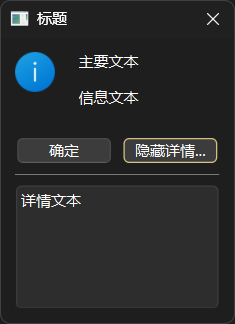
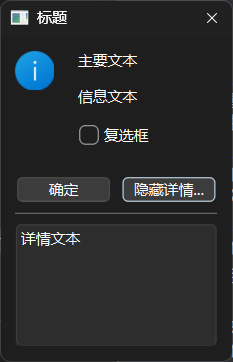
Update

diff --git a/gui/qt_for_python.md b/gui/qt_for_python.md
@@ -6819,7 +6819,8 @@ from PySide6.QtWidgets import (
     QApplication,
     QWidget,
     QPushButton,
-    QMessageBox
+    QMessageBox,
+    QCheckBox
 )
 from PySide6.QtCore import QTranslator,QLibraryInfo,QLocale
 
@@ -6848,6 +6849,9 @@ message_box = QMessageBox(
     informativeText='信息文本'
 )
 
+cb = QCheckBox('复选框')
+message_box.setCheckBox(cb)
+
 button.clicked.connect(message_box.show)
 window.show()
 app.exec()
@@ -6861,7 +6865,8 @@ app.exec()
 
 - 左上角显示的图标，通常是简单直观的标识，也可以是自定义的图片，用于表达信息的图形部分。
 - 图标右边的上面是主要文本，通常简明扼要地表达信息的主要内容。
-- 图标右边的下面是信息文本，通常补充说明信息内容。
+- 主要文本的下面是信息文本，通常补充说明信息内容。
+- 信息文本的下面是复选框，通常表示一个布尔类型的选择。
 - 如果定没有义详情文本，最下面的是一排按钮，用户可以点击按钮，程序能够识别用户点击的按钮，对话框消失的同时，返回不同的值。
 - 如果定义了详情文本，最下面的一排按钮会多一个显示详情的按钮，点击这个按钮，最下面会弹出详情文本区域，显示详情文本。相比于信息文本，详情文本通常更加详细，也会包含一些默认不需要第一时间展示的文本，比如程序报错的详情。
 
@@ -7140,73 +7145,256 @@ app.exec()
 
   ![2025_20_6](qt_for_python.assets/2025_20_6.png)
 
-- `buttonRole`方法（完整用法可参考 https://doc.qt.io/qtforpython-6/PySide6/QtWidgets/QMessageBox.html#PySide6.QtWidgets.QMessageBox.buttonRole），
+- `buttonRole`方法（完整用法可参考 https://doc.qt.io/qtforpython-6/PySide6/QtWidgets/QMessageBox.html#PySide6.QtWidgets.QMessageBox.buttonRole），返回消息对话框指定按钮（`PySide6.QtWidgets.QAbstractButton`类型）的按钮角色。
 
-- def [`buttonText()`方法（完整用法可参考 https://doc.qt.io/qtforpython-6/PySide6/QtWidgets/QMessageBox.html#PySide6.QtWidgets.QMessageBox.buttonText)
+  所谓按钮角色，即点击按钮之后，消息对话框应当执行的操作，具体参考 https://doc.qt.io/qtforpython-6/PySide6/QtWidgets/QMessageBox.html#PySide6.QtWidgets.QMessageBox.ButtonRole。注意，按钮角色不限制按钮的功能，主要用在开发者实现按钮对应功能时，帮助开发者识别按钮应该执行的功能。比如，`QMessageBox.ButtonRole.YesRole`角色对应的按钮，点击按钮之后，应该执行确认之类的操作：
 
-- def [`buttons()`](https://doc.qt.io/qtforpython-6/PySide6/QtWidgets/QMessageBox.html#PySide6.QtWidgets.QMessageBox.buttons)
+  ```python3
+  from PySide6.QtWidgets import (
+      QApplication,
+      QWidget,
+      QPushButton,
+      QMessageBox
+  )
+  from PySide6.QtCore import QTranslator,QLibraryInfo,QLocale
+  
+  app = QApplication()
+  
+  # 加载内置控件的语言文件
+  translator = QTranslator()
+  translator.load(
+      QLocale('zh'),
+      'qtbase',
+      '_',
+      QLibraryInfo.path(QLibraryInfo.LibraryPath.TranslationsPath)
+  )
+  app.installTranslator(translator)
+  
+  window = QWidget()
+  window.setWindowTitle('信息对话框')
+  window.resize(400, 300)
+  button = QPushButton('显示对话框',window)
+  
+  message_box = QMessageBox(
+      QMessageBox.Icon.Information,
+      '标题',
+      '主要文本',
+      informativeText='信息文本',
+      buttons=QMessageBox.StandardButton.Yes|QMessageBox.StandardButton.No,
+  )
+  
+  def which_button(e):
+      if message_box.buttonRole(e) == QMessageBox.ButtonRole.YesRole:
+          print('yes')
+      else:
+          print('else')
+  
+  message_box.buttonClicked.connect(which_button)
+  
+  button.clicked.connect(message_box.show)
+  window.show()
+  app.exec()
+  ```
 
-- def [`checkBox()`](https://doc.qt.io/qtforpython-6/PySide6/QtWidgets/QMessageBox.html#PySide6.QtWidgets.QMessageBox.checkBox)
+- `buttons`方法（完整用法可参考 https://doc.qt.io/qtforpython-6/PySide6/QtWidgets/QMessageBox.html#PySide6.QtWidgets.QMessageBox.buttons），返回`buttons`参数定义的和`addButton`方法添加的按钮（`PySide6.QtWidgets.QAbstractButton`类型）。
 
-- def [`clickedButton()`](https://doc.qt.io/qtforpython-6/PySide6/QtWidgets/QMessageBox.html#PySide6.QtWidgets.QMessageBox.clickedButton)
+- `checkBox`方法（完整用法可参考 https://doc.qt.io/qtforpython-6/PySide6/QtWidgets/QMessageBox.html#PySide6.QtWidgets.QMessageBox.checkBox），返回复选框控件（需要通过`setCheckBox`方法添加，复选框控件必须分步创建）。示例如下：
 
-- def [`defaultButton()`](https://doc.qt.io/qtforpython-6/PySide6/QtWidgets/QMessageBox.html#PySide6.QtWidgets.QMessageBox.defaultButton)
+  ```python3
+  from PySide6.QtWidgets import (
+      QApplication,
+      QWidget,
+      QPushButton,
+      QMessageBox,
+      QCheckBox
+  )
+  from PySide6.QtCore import QTranslator,QLibraryInfo,QLocale
+  
+  app = QApplication()
+  
+  # 加载内置控件的语言文件
+  translator = QTranslator()
+  translator.load(
+      QLocale('zh'),
+      'qtbase',
+      '_',
+      QLibraryInfo.path(QLibraryInfo.LibraryPath.TranslationsPath)
+  )
+  app.installTranslator(translator)
+  
+  window = QWidget()
+  window.setWindowTitle('信息对话框')
+  window.resize(400, 300)
+  button = QPushButton('显示对话框',window)
+  
+  message_box = QMessageBox(
+      QMessageBox.Icon.Information,
+      '标题',
+      '主要文本',
+      informativeText='信息文本',
+      buttons=QMessageBox.StandardButton.Yes|QMessageBox.StandardButton.No,
+  )
+  
+  cb = QCheckBox('复选框')
+  message_box.setCheckBox(cb)
+  message_box.checkBox().clicked.connect(lambda e:print(e))
+  
+  button.clicked.connect(message_box.show)
+  window.show()
+  app.exec()
+  ```
 
-- def [`detailedText()`](https://doc.qt.io/qtforpython-6/PySide6/QtWidgets/QMessageBox.html#id0)
+- `clickedButton`方法（完整用法可参考 https://doc.qt.io/qtforpython-6/PySide6/QtWidgets/QMessageBox.html#PySide6.QtWidgets.QMessageBox.clickedButton），通过阻塞型方法（`exec`方法）显示对话框的话，该方法会返回用户点击的按钮（`PySide6.QtWidgets.QAbstractButton`类型）。
 
-- def [`escapeButton()`](https://doc.qt.io/qtforpython-6/PySide6/QtWidgets/QMessageBox.html#PySide6.QtWidgets.QMessageBox.escapeButton)
+  借助该方法的返回值，可以准确判断出用户点击了哪个按钮：
 
-- def [`icon()`](https://doc.qt.io/qtforpython-6/PySide6/QtWidgets/QMessageBox.html#id1)
+  ```python3
+  from PySide6.QtWidgets import (
+      QApplication,
+      QWidget,
+      QPushButton,
+      QMessageBox,
+      QCheckBox
+  )
+  from PySide6.QtCore import QTranslator,QLibraryInfo,QLocale
+  
+  app = QApplication()
+  
+  # 加载内置控件的语言文件
+  translator = QTranslator()
+  translator.load(
+      QLocale('zh'),
+      'qtbase',
+      '_',
+      QLibraryInfo.path(QLibraryInfo.LibraryPath.TranslationsPath)
+  )
+  app.installTranslator(translator)
+  
+  window = QWidget()
+  window.setWindowTitle('信息对话框')
+  window.resize(400, 300)
+  button = QPushButton('显示对话框',window)
+  
+  message_box = QMessageBox(
+      QMessageBox.Icon.Information,
+      '标题',
+      '主要文本',
+      informativeText='信息文本',
+  )
+  
+  yes_button = message_box.addButton('是(&Y)',QMessageBox.ButtonRole.YesRole)
+  no_button = message_box.addButton('否(&N)',QMessageBox.ButtonRole.NoRole)
+  
+  def show():
+      message_box.exec()
+      if message_box.clickedButton() == yes_button:
+          print('yes')
+  
+  button.clicked.connect(show)
+  window.show()
+  app.exec()
+  ```
 
-- def [`iconPixmap()`](https://doc.qt.io/qtforpython-6/PySide6/QtWidgets/QMessageBox.html#id2)
+  对于通过参数添加的按钮，没有变量表示对应按钮的话，可以使用`standardButton`方法或者`buttonRole`方法将返回值转换为其他可以判断的类型：
 
-- def [`informativeText()`](https://doc.qt.io/qtforpython-6/PySide6/QtWidgets/QMessageBox.html#id3)
+  ```python3
+  from PySide6.QtWidgets import (
+      QApplication,
+      QWidget,
+      QPushButton,
+      QMessageBox,
+      QCheckBox
+  )
+  from PySide6.QtCore import QTranslator,QLibraryInfo,QLocale
+  
+  app = QApplication()
+  
+  # 加载内置控件的语言文件
+  translator = QTranslator()
+  translator.load(
+      QLocale('zh'),
+      'qtbase',
+      '_',
+      QLibraryInfo.path(QLibraryInfo.LibraryPath.TranslationsPath)
+  )
+  app.installTranslator(translator)
+  
+  window = QWidget()
+  window.setWindowTitle('信息对话框')
+  window.resize(400, 300)
+  button = QPushButton('显示对话框',window)
+  
+  message_box = QMessageBox(
+      QMessageBox.Icon.Information,
+      '标题',
+      '主要文本',
+      informativeText='信息文本',
+      buttons=QMessageBox.StandardButton.Yes|QMessageBox.StandardButton.No,
+  )
+  
+  def show():
+      message_box.exec()
+      if message_box.standardButton(message_box.clickedButton()) == QMessageBox.StandardButton.Yes:
+          print('yes')
+      if message_box.buttonRole(message_box.clickedButton()) == QMessageBox.ButtonRole.YesRole:
+          print('yesRole')
+  
+  button.clicked.connect(show)
+  window.show()
+  app.exec()
+  ```
 
-- def [`open()`](https://doc.qt.io/qtforpython-6/PySide6/QtWidgets/QMessageBox.html#PySide6.QtWidgets.QMessageBox.open)
+- `defaultButton`方法（完整用法可参考 https://doc.qt.io/qtforpython-6/PySide6/QtWidgets/QMessageBox.html#PySide6.QtWidgets.QMessageBox.defaultButton），返回消息对话框默认获得焦点的按钮。
 
-- def [`removeButton()`](https://doc.qt.io/qtforpython-6/PySide6/QtWidgets/QMessageBox.html#PySide6.QtWidgets.QMessageBox.removeButton)
+- `detailedText`方法（完整用法可参考 https://doc.qt.io/qtforpython-6/PySide6/QtWidgets/QMessageBox.html#id0），返回详情文本。
 
-- def [`setButtonText()`](https://doc.qt.io/qtforpython-6/PySide6/QtWidgets/QMessageBox.html#PySide6.QtWidgets.QMessageBox.setButtonText)
+- `escapeButton`方法（完整用法可参考 https://doc.qt.io/qtforpython-6/PySide6/QtWidgets/QMessageBox.html#PySide6.QtWidgets.QMessageBox.escapeButton），返回按下`escape`键时的等效按钮（`PySide6.QtWidgets.QAbstractButton`类型）。
 
-- def [`setCheckBox()`](https://doc.qt.io/qtforpython-6/PySide6/QtWidgets/QMessageBox.html#PySide6.QtWidgets.QMessageBox.setCheckBox)
+- `icon`方法（完整用法可参考 https://doc.qt.io/qtforpython-6/PySide6/QtWidgets/QMessageBox.html#id1），返回对话框显示的标准图标。
 
-- def [`setDefaultButton()`](https://doc.qt.io/qtforpython-6/PySide6/QtWidgets/QMessageBox.html#PySide6.QtWidgets.QMessageBox.setDefaultButton)
+- `iconPixmap`方法（完整用法可参考 https://doc.qt.io/qtforpython-6/PySide6/QtWidgets/QMessageBox.html#id2），返回使用自定义图片的图标。
 
-- def [`setDetailedText()`](https://doc.qt.io/qtforpython-6/PySide6/QtWidgets/QMessageBox.html#PySide6.QtWidgets.QMessageBox.setDetailedText)
+- `informativeText`方法（完整用法可参考 https://doc.qt.io/qtforpython-6/PySide6/QtWidgets/QMessageBox.html#id3），返回信息文本。
 
-- def [`setEscapeButton()`](https://doc.qt.io/qtforpython-6/PySide6/QtWidgets/QMessageBox.html#PySide6.QtWidgets.QMessageBox.setEscapeButton)
+- `open`方法（完整用法可参考 https://doc.qt.io/qtforpython-6/PySide6/QtWidgets/QMessageBox.html#PySide6.QtWidgets.QMessageBox.open），以非模态、非阻塞的方式显示对话框。除了此方法之外，`exec`方法（模态、阻塞）、`show`方法（模态、非阻塞），也支持显示对话框。所谓阻塞，即执行方法时，如果对话框不关闭，该方法之后的其他代码不会执行。
 
-- def [`setIcon()`](https://doc.qt.io/qtforpython-6/PySide6/QtWidgets/QMessageBox.html#PySide6.QtWidgets.QMessageBox.setIcon)
+- `removeButton`方法（完整用法可参考 https://doc.qt.io/qtforpython-6/PySide6/QtWidgets/QMessageBox.html#PySide6.QtWidgets.QMessageBox.removeButton），从对话框中移除指定按钮（`PySide6.QtWidgets.QAbstractButton`类型）。
 
-- def [`setIconPixmap()`](https://doc.qt.io/qtforpython-6/PySide6/QtWidgets/QMessageBox.html#PySide6.QtWidgets.QMessageBox.setIconPixmap)
+- `setCheckBox`方法（完整用法可参考 https://doc.qt.io/qtforpython-6/PySide6/QtWidgets/QMessageBox.html#PySide6.QtWidgets.QMessageBox.setCheckBox），在消息对话框中添加一个复选框。
 
-- def [`setInformativeText()`](https://doc.qt.io/qtforpython-6/PySide6/QtWidgets/QMessageBox.html#PySide6.QtWidgets.QMessageBox.setInformativeText)
+- `setDefaultButton`方法（完整用法可参考 https://doc.qt.io/qtforpython-6/PySide6/QtWidgets/QMessageBox.html#PySide6.QtWidgets.QMessageBox.setDefaultButton），设置消息对话框默认获得焦点的按钮为指定按钮。
 
-- def [`setStandardButtons()`](https://doc.qt.io/qtforpython-6/PySide6/QtWidgets/QMessageBox.html#PySide6.QtWidgets.QMessageBox.setStandardButtons)
+- `setDetailedText`方法（完整用法可参考 https://doc.qt.io/qtforpython-6/PySide6/QtWidgets/QMessageBox.html#PySide6.QtWidgets.QMessageBox.setDetailedText），设置详情文本。
 
-- def [`setText()`](https://doc.qt.io/qtforpython-6/PySide6/QtWidgets/QMessageBox.html#PySide6.QtWidgets.QMessageBox.setText)
+- `setEscapeButton`方法（完整用法可参考 https://doc.qt.io/qtforpython-6/PySide6/QtWidgets/QMessageBox.html#PySide6.QtWidgets.QMessageBox.setEscapeButton），设置按下`escape`键时的等效按钮（`PySide6.QtWidgets.QAbstractButton`类型）。
 
-- def [`setTextFormat()`](https://doc.qt.io/qtforpython-6/PySide6/QtWidgets/QMessageBox.html#PySide6.QtWidgets.QMessageBox.setTextFormat)
+- `setIcon`方法（完整用法可参考 https://doc.qt.io/qtforpython-6/PySide6/QtWidgets/QMessageBox.html#PySide6.QtWidgets.QMessageBox.setIcon），设置显示的标准图标。
 
-- def [`setTextInteractionFlags()`](https://doc.qt.io/qtforpython-6/PySide6/QtWidgets/QMessageBox.html#PySide6.QtWidgets.QMessageBox.setTextInteractionFlags)
+- `setIconPixmap`方法（完整用法可参考 https://doc.qt.io/qtforpython-6/PySide6/QtWidgets/QMessageBox.html#PySide6.QtWidgets.QMessageBox.setIconPixmap），使用自定义图片当作图标。
 
-- def [`setWindowModality()`](https://doc.qt.io/qtforpython-6/PySide6/QtWidgets/QMessageBox.html#PySide6.QtWidgets.QMessageBox.setWindowModality)
+- def [`setInformativeText()`方法（完整用法可参考 https://doc.qt.io/qtforpython-6/PySide6/QtWidgets/QMessageBox.html#PySide6.QtWidgets.QMessageBox.setInformativeText），---
 
-- def [`setWindowTitle()`](https://doc.qt.io/qtforpython-6/PySide6/QtWidgets/QMessageBox.html#PySide6.QtWidgets.QMessageBox.setWindowTitle)
+- def [`setStandardButtons()`方法（完整用法可参考 https://doc.qt.io/qtforpython-6/PySide6/QtWidgets/QMessageBox.html#PySide6.QtWidgets.QMessageBox.setStandardButtons)
 
-- def [`standardButton()`](https://doc.qt.io/qtforpython-6/PySide6/QtWidgets/QMessageBox.html#PySide6.QtWidgets.QMessageBox.standardButton)
+- def [`setText()`方法（完整用法可参考 https://doc.qt.io/qtforpython-6/PySide6/QtWidgets/QMessageBox.html#PySide6.QtWidgets.QMessageBox.setText)
 
-- def [`standardButtons()`](https://doc.qt.io/qtforpython-6/PySide6/QtWidgets/QMessageBox.html#id5)
+- def [`setTextFormat()`方法（完整用法可参考 https://doc.qt.io/qtforpython-6/PySide6/QtWidgets/QMessageBox.html#PySide6.QtWidgets.QMessageBox.setTextFormat)
 
-- def [`text()`](https://doc.qt.io/qtforpython-6/PySide6/QtWidgets/QMessageBox.html#id6)
+- def [`setTextInteractionFlags()`方法（完整用法可参考 https://doc.qt.io/qtforpython-6/PySide6/QtWidgets/QMessageBox.html#PySide6.QtWidgets.QMessageBox.setTextInteractionFlags)
 
-- def [`textFormat()`](https://doc.qt.io/qtforpython-6/PySide6/QtWidgets/QMessageBox.html#id7)
+- def [`setWindowModality()`方法（完整用法可参考 https://doc.qt.io/qtforpython-6/PySide6/QtWidgets/QMessageBox.html#PySide6.QtWidgets.QMessageBox.setWindowModality)
 
-- def [`textInteractionFlags()`](https://doc.qt.io/qtforpython-6/PySide6/QtWidgets/QMessageBox.html#id8)
+- def [`setWindowTitle()`方法（完整用法可参考 https://doc.qt.io/qtforpython-6/PySide6/QtWidgets/QMessageBox.html#PySide6.QtWidgets.QMessageBox.setWindowTitle)
 
+- def [`standardButton()`方法（完整用法可参考 https://doc.qt.io/qtforpython-6/PySide6/QtWidgets/QMessageBox.html#PySide6.QtWidgets.QMessageBox.standardButton)
 
+- def [`standardButtons()`方法（完整用法可参考 https://doc.qt.io/qtforpython-6/PySide6/QtWidgets/QMessageBox.html#id5)
 
+- def [`text()`方法（完整用法可参考 https://doc.qt.io/qtforpython-6/PySide6/QtWidgets/QMessageBox.html#id6)
 
+- def [`textFormat()`方法（完整用法可参考 https://doc.qt.io/qtforpython-6/PySide6/QtWidgets/QMessageBox.html#id7)
+
+- def [`textInteractionFlags()`方法（完整用法可参考 https://doc.qt.io/qtforpython-6/PySide6/QtWidgets/QMessageBox.html#id8)
 
 
 
@@ -7216,15 +7404,13 @@ app.exec()
 
 `QMessageBox`类可以用于创建高度自定义的消息对话框控件，但同时也会让使用过程变得复杂。对于想要快速、简单创建对话框的需求，可以使用`QMessageBox`类的静态方法：
 
-- def [`about`方法（完整用法可参考 https://doc.qt.io/qtforpython-6/PySide6/QtWidgets/QMessageBox.html#PySide6.QtWidgets.QMessageBox.about)
+- def [`about`方法（完整用法可参考 https://doc.qt.io/qtforpython-6/PySide6/QtWidgets/QMessageBox.html#PySide6.QtWidgets.QMessageBox.about），
 - def [`aboutQt()`方法（完整用法可参考 https://doc.qt.io/qtforpython-6/PySide6/QtWidgets/QMessageBox.html#PySide6.QtWidgets.QMessageBox.aboutQt)
-- def [`critical()`](https://doc.qt.io/qtforpython-6/PySide6/QtWidgets/QMessageBox.html#PySide6.QtWidgets.QMessageBox.critical)
-- def [`information()`](https://doc.qt.io/qtforpython-6/PySide6/QtWidgets/QMessageBox.html#PySide6.QtWidgets.QMessageBox.information)
-- def [`question()`](https://doc.qt.io/qtforpython-6/PySide6/QtWidgets/QMessageBox.html#PySide6.QtWidgets.QMessageBox.question)
-- def [`standardIcon()`](https://doc.qt.io/qtforpython-6/PySide6/QtWidgets/QMessageBox.html#PySide6.QtWidgets.QMessageBox.standardIcon)
-- def [`warning()`](https://doc.qt.io/qtforpython-6/PySide6/QtWidgets/QMessageBox.html#PySide6.QtWidgets.QMessageBox.warning)
-
-
+- def [`critical()`方法（完整用法可参考 https://doc.qt.io/qtforpython-6/PySide6/QtWidgets/QMessageBox.html#PySide6.QtWidgets.QMessageBox.critical)
+- def [`information()`方法（完整用法可参考 https://doc.qt.io/qtforpython-6/PySide6/QtWidgets/QMessageBox.html#PySide6.QtWidgets.QMessageBox.information)
+- def [`question()`方法（完整用法可参考 https://doc.qt.io/qtforpython-6/PySide6/QtWidgets/QMessageBox.html#PySide6.QtWidgets.QMessageBox.question)
+- def [`standardIcon()`方法（完整用法可参考 https://doc.qt.io/qtforpython-6/PySide6/QtWidgets/QMessageBox.html#PySide6.QtWidgets.QMessageBox.standardIcon)
+- def [`warning()`方法（完整用法可参考 https://doc.qt.io/qtforpython-6/PySide6/QtWidgets/QMessageBox.html#PySide6.QtWidgets.QMessageBox.warning)
 
 
 
